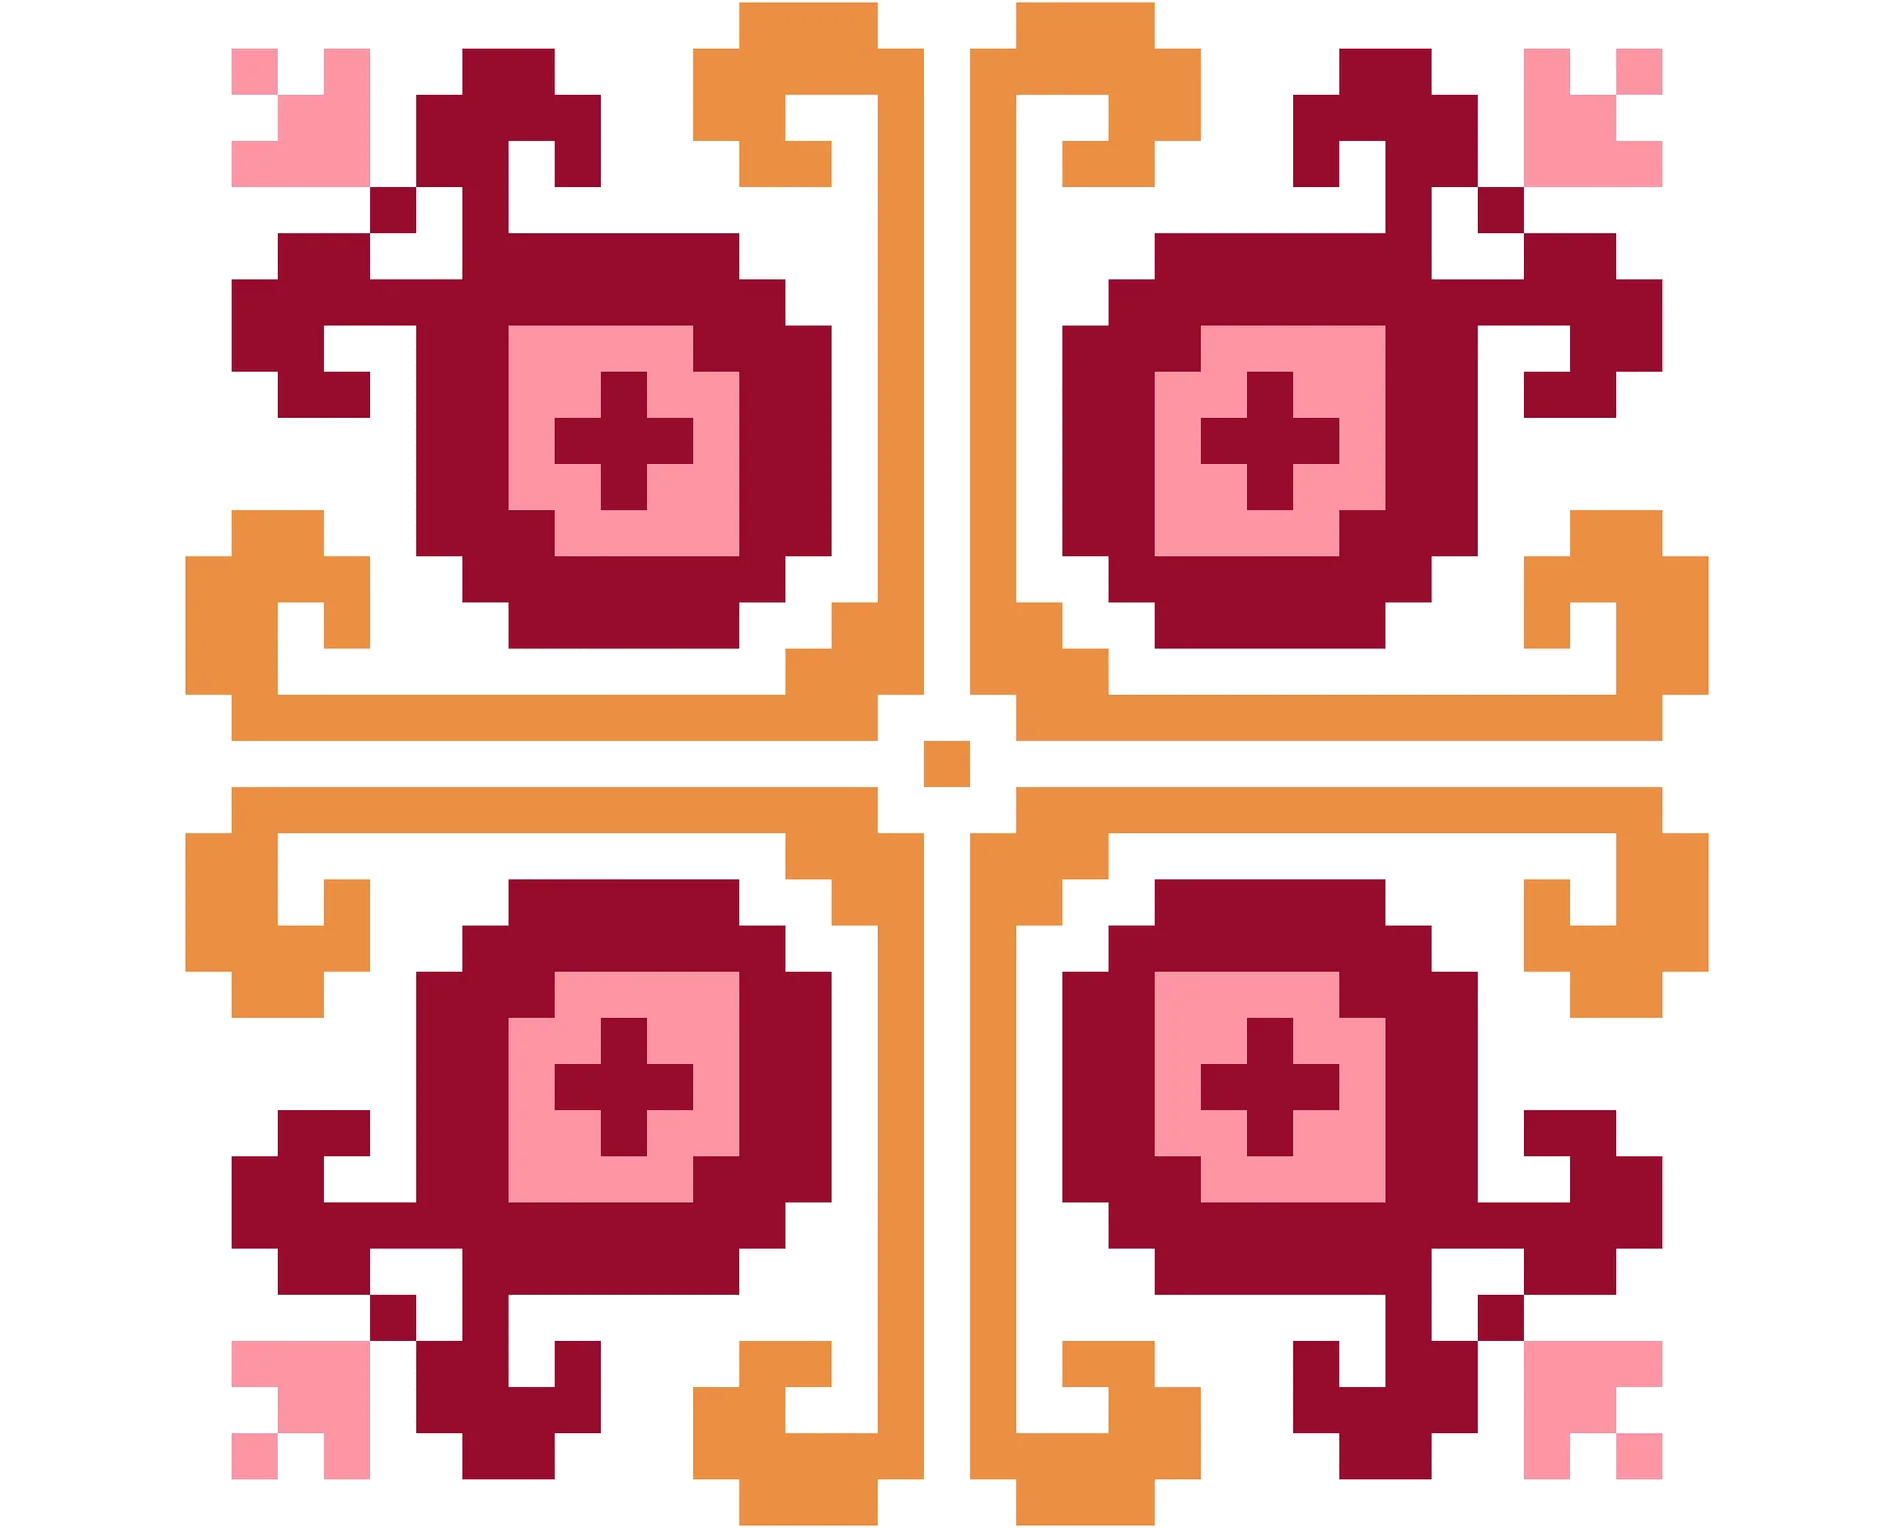
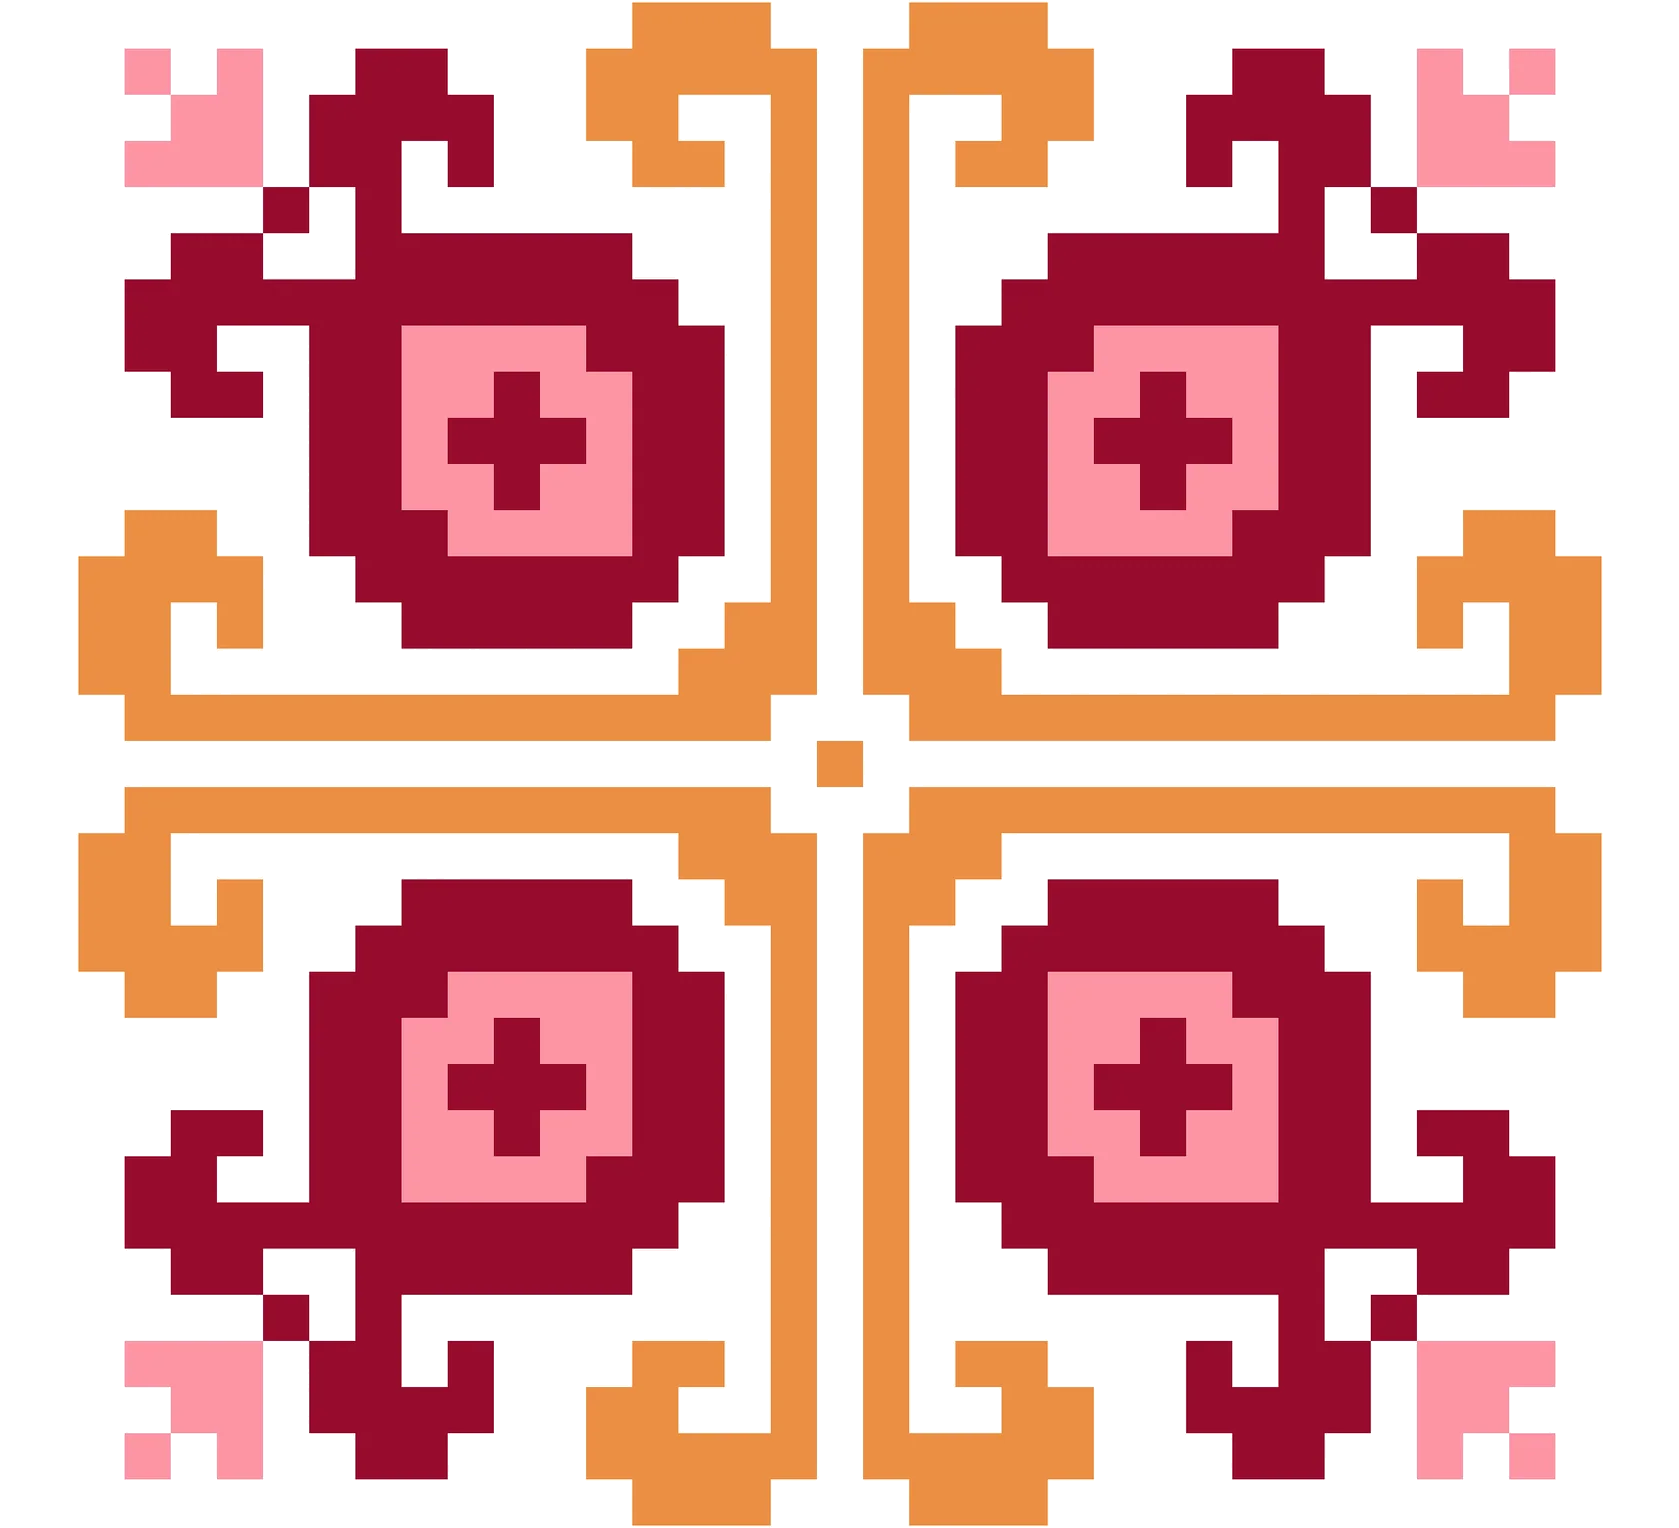
Make tatreez squares bigger with smaller gaps between them

diff --git a/style.css b/style.css
@@ -46,7 +46,7 @@ a:focus-visible, button:focus-visible { outline: 2px solid var(--accent); outlin
    and the rest of the page. Same full-bleed technique as .photo-header. */
 .tatreez-strip {
   width: calc(100% + 48px); margin: 20px -24px 0;
-  height: 34px;
+  height: 46px;
   background-image: url("images/tatreez-separator.png");
   /* "round" (rather than repeat-x) slightly resizes each tile so a whole
      number always fits the width exactly, so no tile is ever cut off at
@@ -166,7 +166,7 @@ p { font-size: 18px; line-height: 1.6; color: var(--muted); margin: 0; }
   .content { padding: 112px 0 96px; }
   .content > .section:first-child { margin-top: 0; padding-top: 0; border-top: 0; }
   .photo-header { width: calc(100% + 96px); margin: 0 -48px; aspect-ratio: auto; height: min(60vh, 520px); }
-  .tatreez-strip { width: calc(100% + 96px); margin: 28px -48px 0; height: 44px; }
+  .tatreez-strip { width: calc(100% + 96px); margin: 28px -48px 0; height: 60px; }
 }
 
 /* ---------- Language switch, top corner (top-right in English, top-left in Arabic) ---------- */
